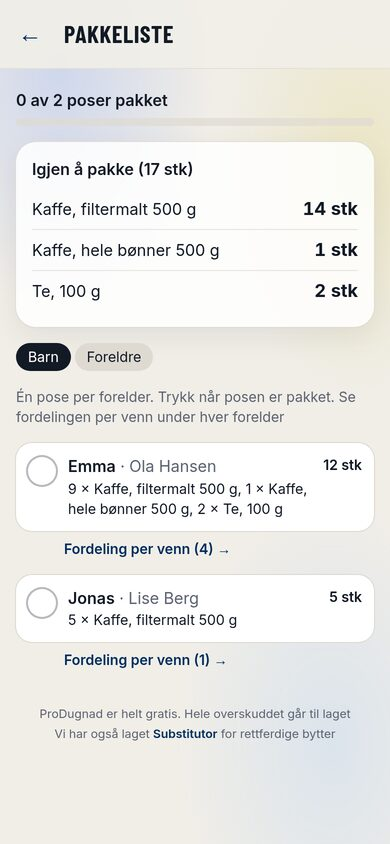
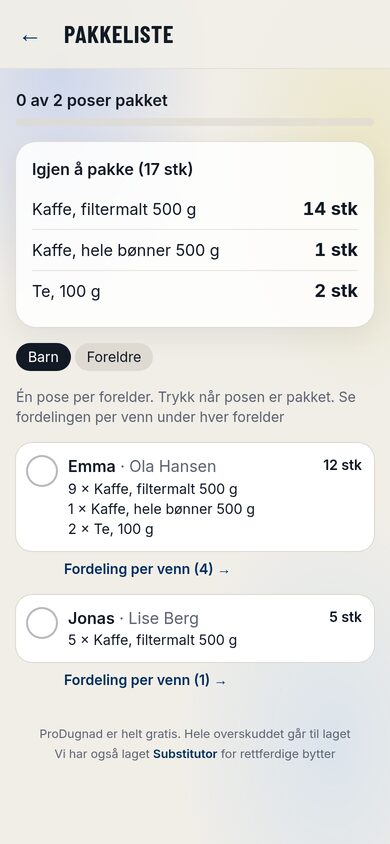
Packing list for all parents: one line per product in each bag

Changed region(s): [[0.0615, 0.5545, 0.8923, 0.9242], [0.6462, 0.6777, 0.9538, 0.8009], [0.7077, 0.6777, 0.8, 0.7085]]

diff --git a/src/pages/admin/AllPackingPage.tsx b/src/pages/admin/AllPackingPage.tsx
@@ -1,6 +1,6 @@
 import { useState } from 'react'
 import { Link, useParams } from 'react-router'
-import { CheckRow, PackedProgress, UnitsTable, unitsByProduct, unitsText } from '../../components/PackingList'
+import { CheckRow, PackedProgress, UnitsTable, unitsByProduct } from '../../components/PackingList'
 import { Card, ErrorBox, Loading, Page, TopBar } from '../../components/ui'
 import { adminChildName, useAdminData } from '../../lib/adminData'
 import { errorText } from '../../lib/errors'
@@ -107,7 +107,11 @@ export default function AllPackingPage() {
                           </>
                         )}
                       </span>
-                      <span className="block text-sm">{unitsText(units)}</span>
+                      {units.map((u) => (
+                        <span key={u.id} className="block text-sm">
+                          {u.units} × {u.name}
+                        </span>
+                      ))}
                       {p.goods_sent_at && <span className="block text-xs text-green-800">Sendt</span>}
                     </CheckRow>
                     <Link to={`/pakkeliste/${p.id}`} className="ml-12 inline-flex min-h-9 items-center text-sm font-semibold text-brand">

diff --git a/docs/plan.md b/docs/plan.md
@@ -84,7 +84,7 @@ Also built early (phase 2 items that were cheap): lock/unlock and close, supplie
 - 22 Nov 2026: the target is labelled as the goal (the owner: make it clear 12 000 is the dugnad's goal): under every progress bar «**2 280 kr** til laget» left and «Mål: **12 000 kr**» right; on the parent page a «Hele dugnaden» heading above the bar (instead of the small «For hele dugnaden» below it), so it's clear which numbers are the parent's own
 - 22 Nov 2026: sellers without login (the owner: «some parents don't want to sign up with their email addresses but still just want to buy a certain amount of products»). Planned with Fable. Admins add a child on the Foreldre tab («+ Legg til barn»: child's first name, parent's name and phone optional); it is a `campaign_parents` row with `parent_user_id` null and `offline_name`/`offline_phone` (migration `20261122000002`, RPC `admin_save_seller`, admins only). It gets a D-code; admins enter its orders (new ones start as Egen, the owner's choice) and payments with the normal tools; it counts in all totals, packing lists and the supplier order. Its order link takes no orders (the owner's choice: the parent would never see them): the page shows closed and a trigger refuses friend orders. No emails (all email SQL joins profiles). Admins may now also add/change orders on any parent's page after the lock (the database already allowed it). Not built: letting such a parent take over the row by logging in later (see Ideas)
 - 22 Nov 2026: «Beskjed om oppgjør» in Oppsett → Betaling fra foreldre (`campaigns.payment_note`, migration `20261122000003`): the admins' own note above what parents owe, e.g. when and where the products are handed out; replaces the fixed sentence, which is the default; empty = no note
-- 22 Nov 2026: the admins' packing list (Pakkeliste for alle foreldre) has Barn / Foreldre like the Foreldre tab, Barn first: each bag shows the child's name (admins' label, capitalised) then the parent, sorted by child so siblings' bags sit together. Still one bag per parent
+- 22 Nov 2026: the admins' packing list (Pakkeliste for alle foreldre) has Barn / Foreldre like the Foreldre tab, Barn first: each bag shows the child's name (admins' label, capitalised) then the parent, sorted by child so siblings' bags sit together. Still one bag per parent. Each product on its own line in a bag (the owner's wish)
 - **Next:** the owner's real test run on a phone with the live campaign (join, order as a friend, tick paid, register payment, lock, close). Owner: set Supabase Auth → Rate Limits → emails per hour to 10.
 
 ## Ideas (not built; may never be built)
